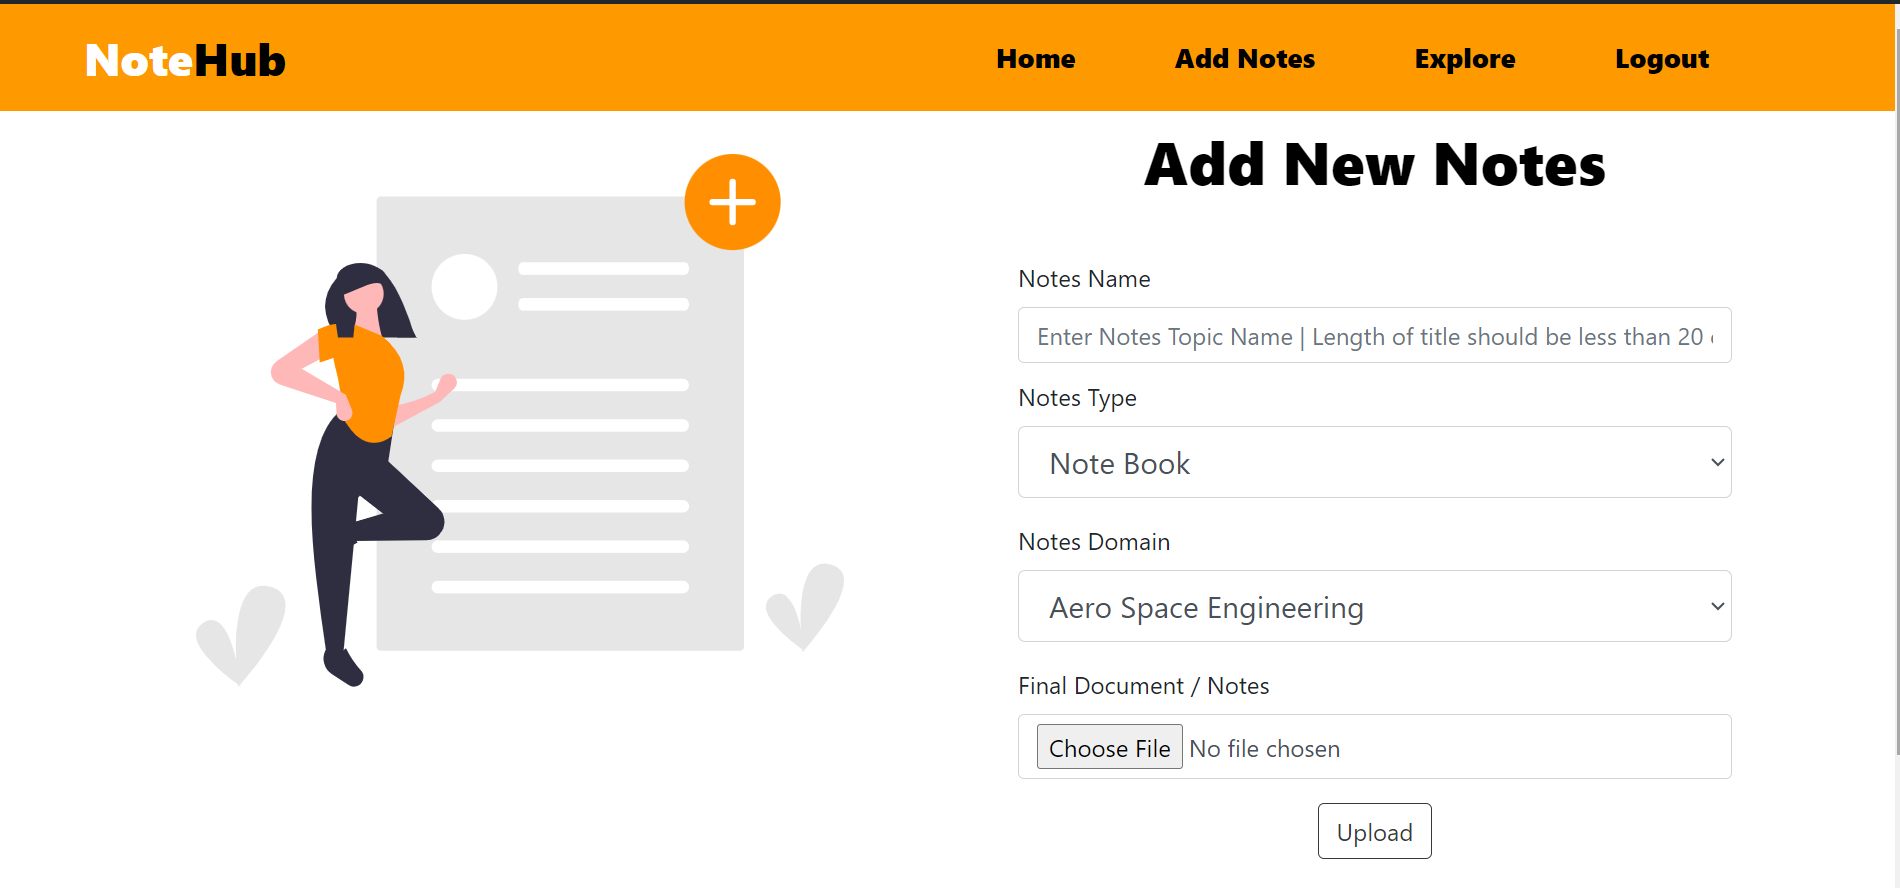
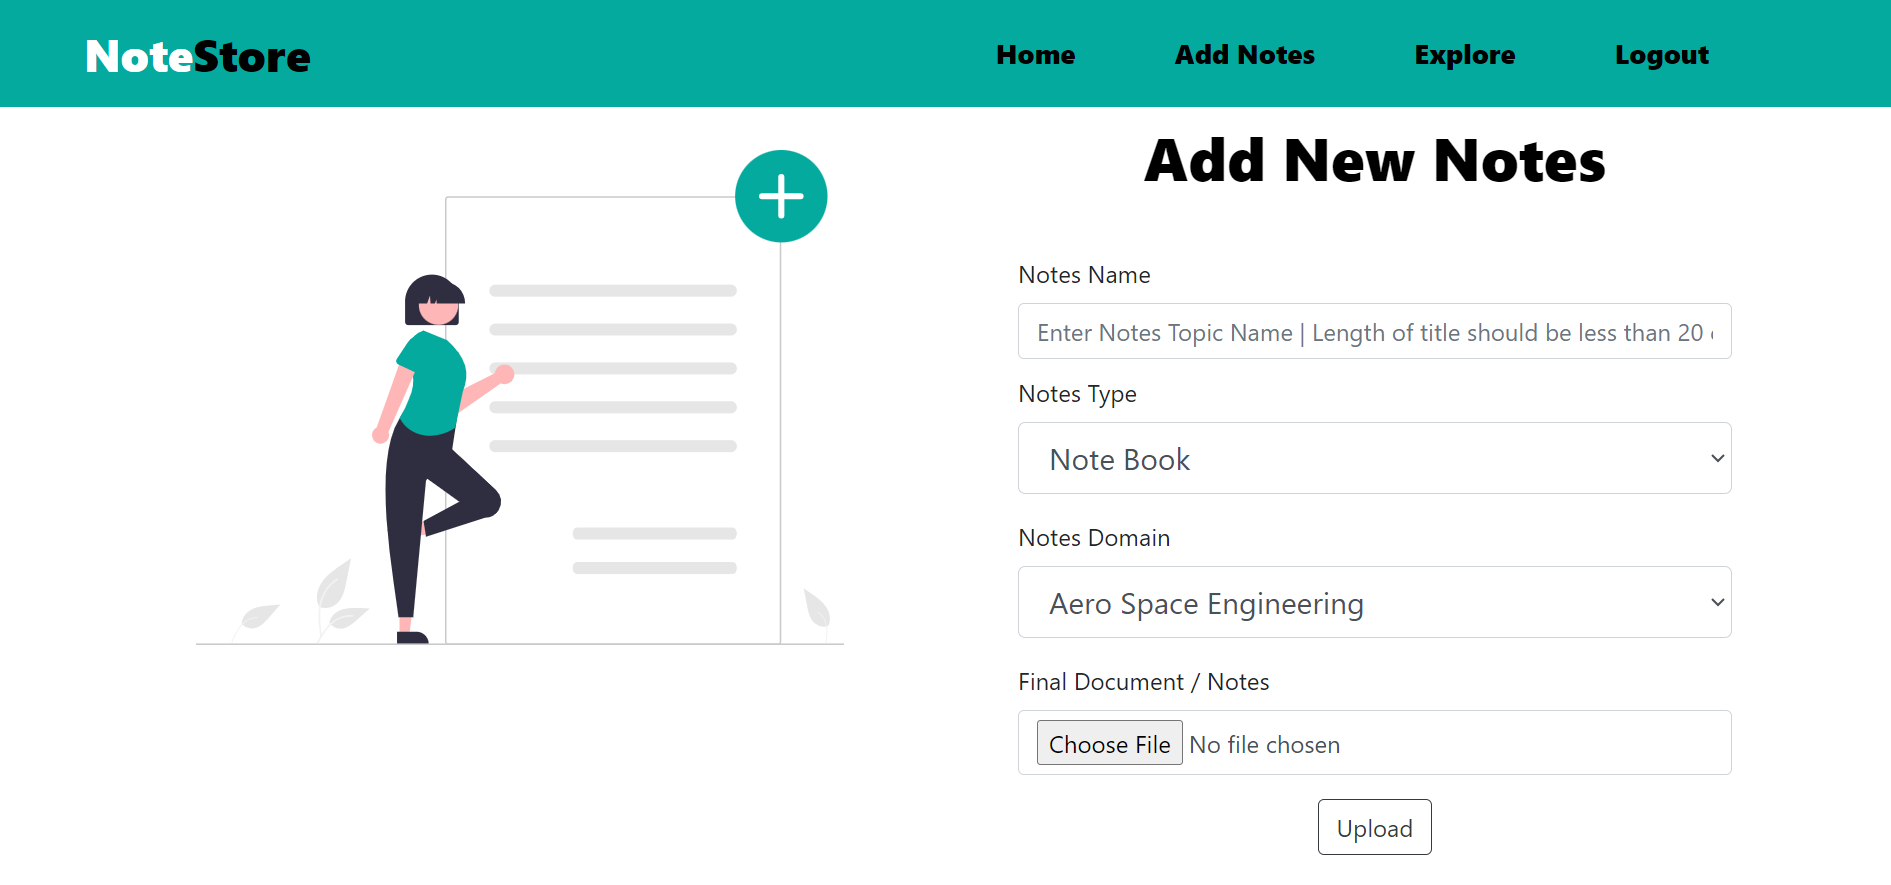
Updated

diff --git a/public/style.css b/public/style.css
@@ -5,7 +5,7 @@
 }
 .navhome
 {
-    background-color: #ff9900;
+    background-color: #05aa9f;
 }
 .navbrand
 {
@@ -29,7 +29,7 @@
     font-size: large;
     text-transform: capitalize;
     transition: 5ms;
-    background-color: #ff9900;
+    background-color: #05aa9f;
 
 }
 .navkey:hover
